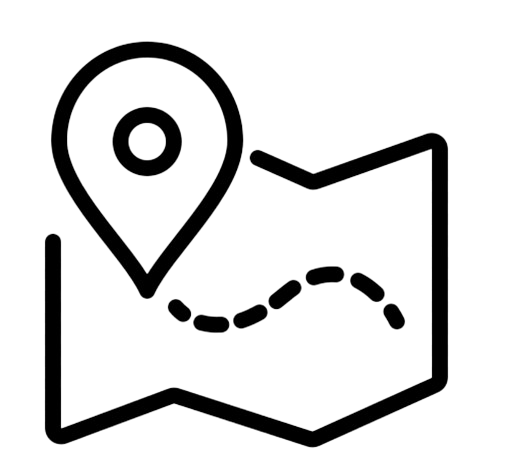
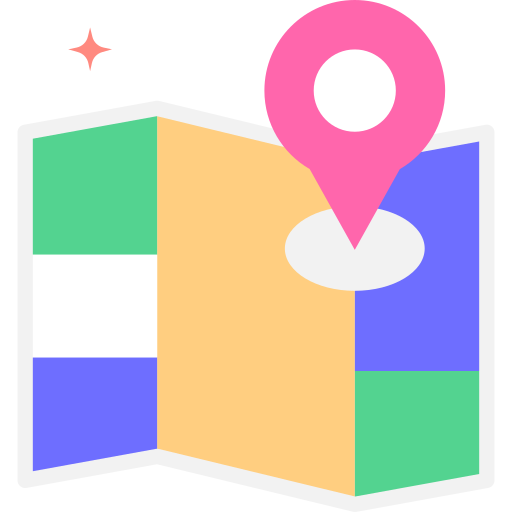
style(Course): 배너 이미지 변경

diff --git a/course.html b/course.html
@@ -65,9 +65,9 @@
         <div class="banner">
             <div class="banner-wrap">
                 <div class="banner-text">
-                    <h1>주요 번화가<br>인기 매장</h1>
+                    <h1 style="font-weight: 550;">주요 번화가<br>인기 매장</h1>
                     <p class="text">어느 매장을 갈지 고민되나요?<br>
-                        서울의 인기 지역의 매장들을 추천해드립니다 </p>
+                        서울 인기 지역 매장들을 추천해드립니다 </p>
                 </div>
                 <div style class="banner-img">
                     <img src="./img/banner-map.png">
@@ -173,7 +173,6 @@
                 const nickname = content.nickname;
 
                 const createdTime = calculateTime(content.createdDate);
-                console.log('createdTime : ', createdTime); // 반환값은 왜 undefined인것인가
                 const courseName = content.courseName;
                 const courseDescription = content.courseDescription;
 
@@ -493,7 +492,6 @@
                 const formattedTime = `${createdDate.getHours()}:${createdDate.getMinutes()}`;
 
                 str = `${formattedTime}`;
-                console.log('formattedTime : ', formattedTime);
             } else {
                 // 7일 이내인 경우, "n일 전" 형식으로 표시
                 const daysDiff = getDaysDiff(currentDate, createdDate);

diff --git a/style.css b/style.css
@@ -188,8 +188,8 @@ ul {
 }
 
 .banner-img {
-  width: 250px;
-  height: 250px;
+  width: 270px;
+  height: 270px;
   display: flex;
 }
 
@@ -525,7 +525,9 @@ ul {
   .banner-img {
     width: 100px;
     height: 100px;
+    padding-left: 10;
   }
+
   .banner-text h1 {
     font-size: 18px;
     font-weight: 550;
